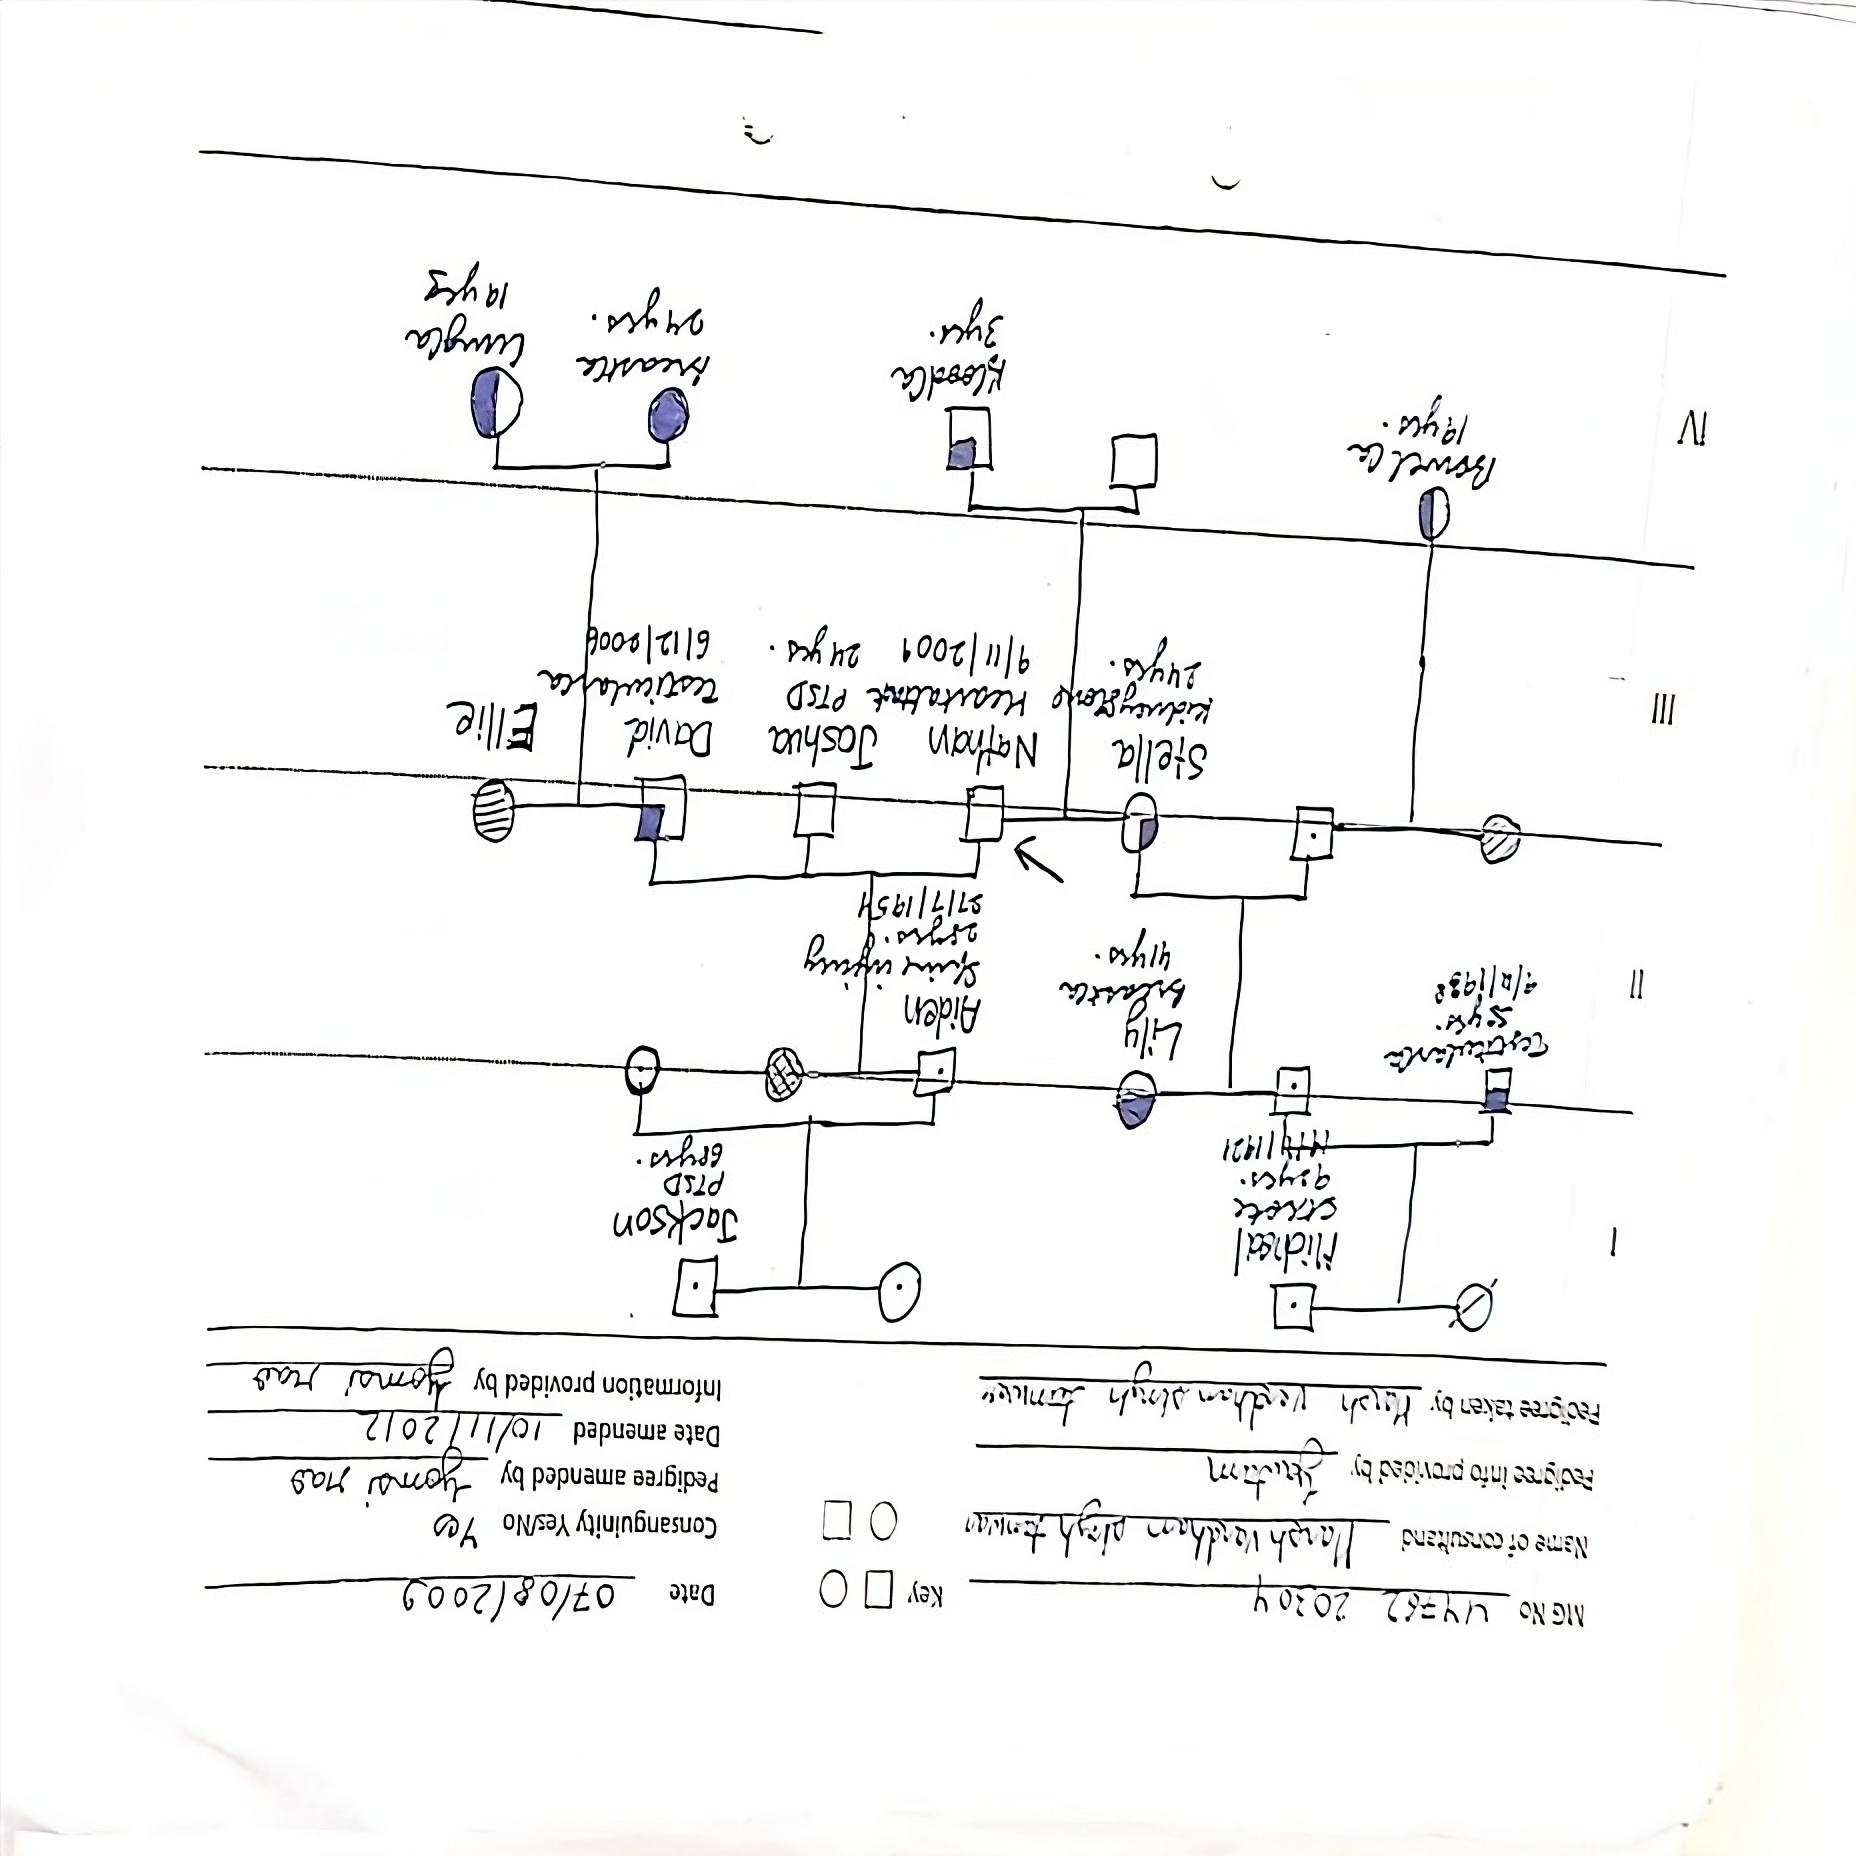
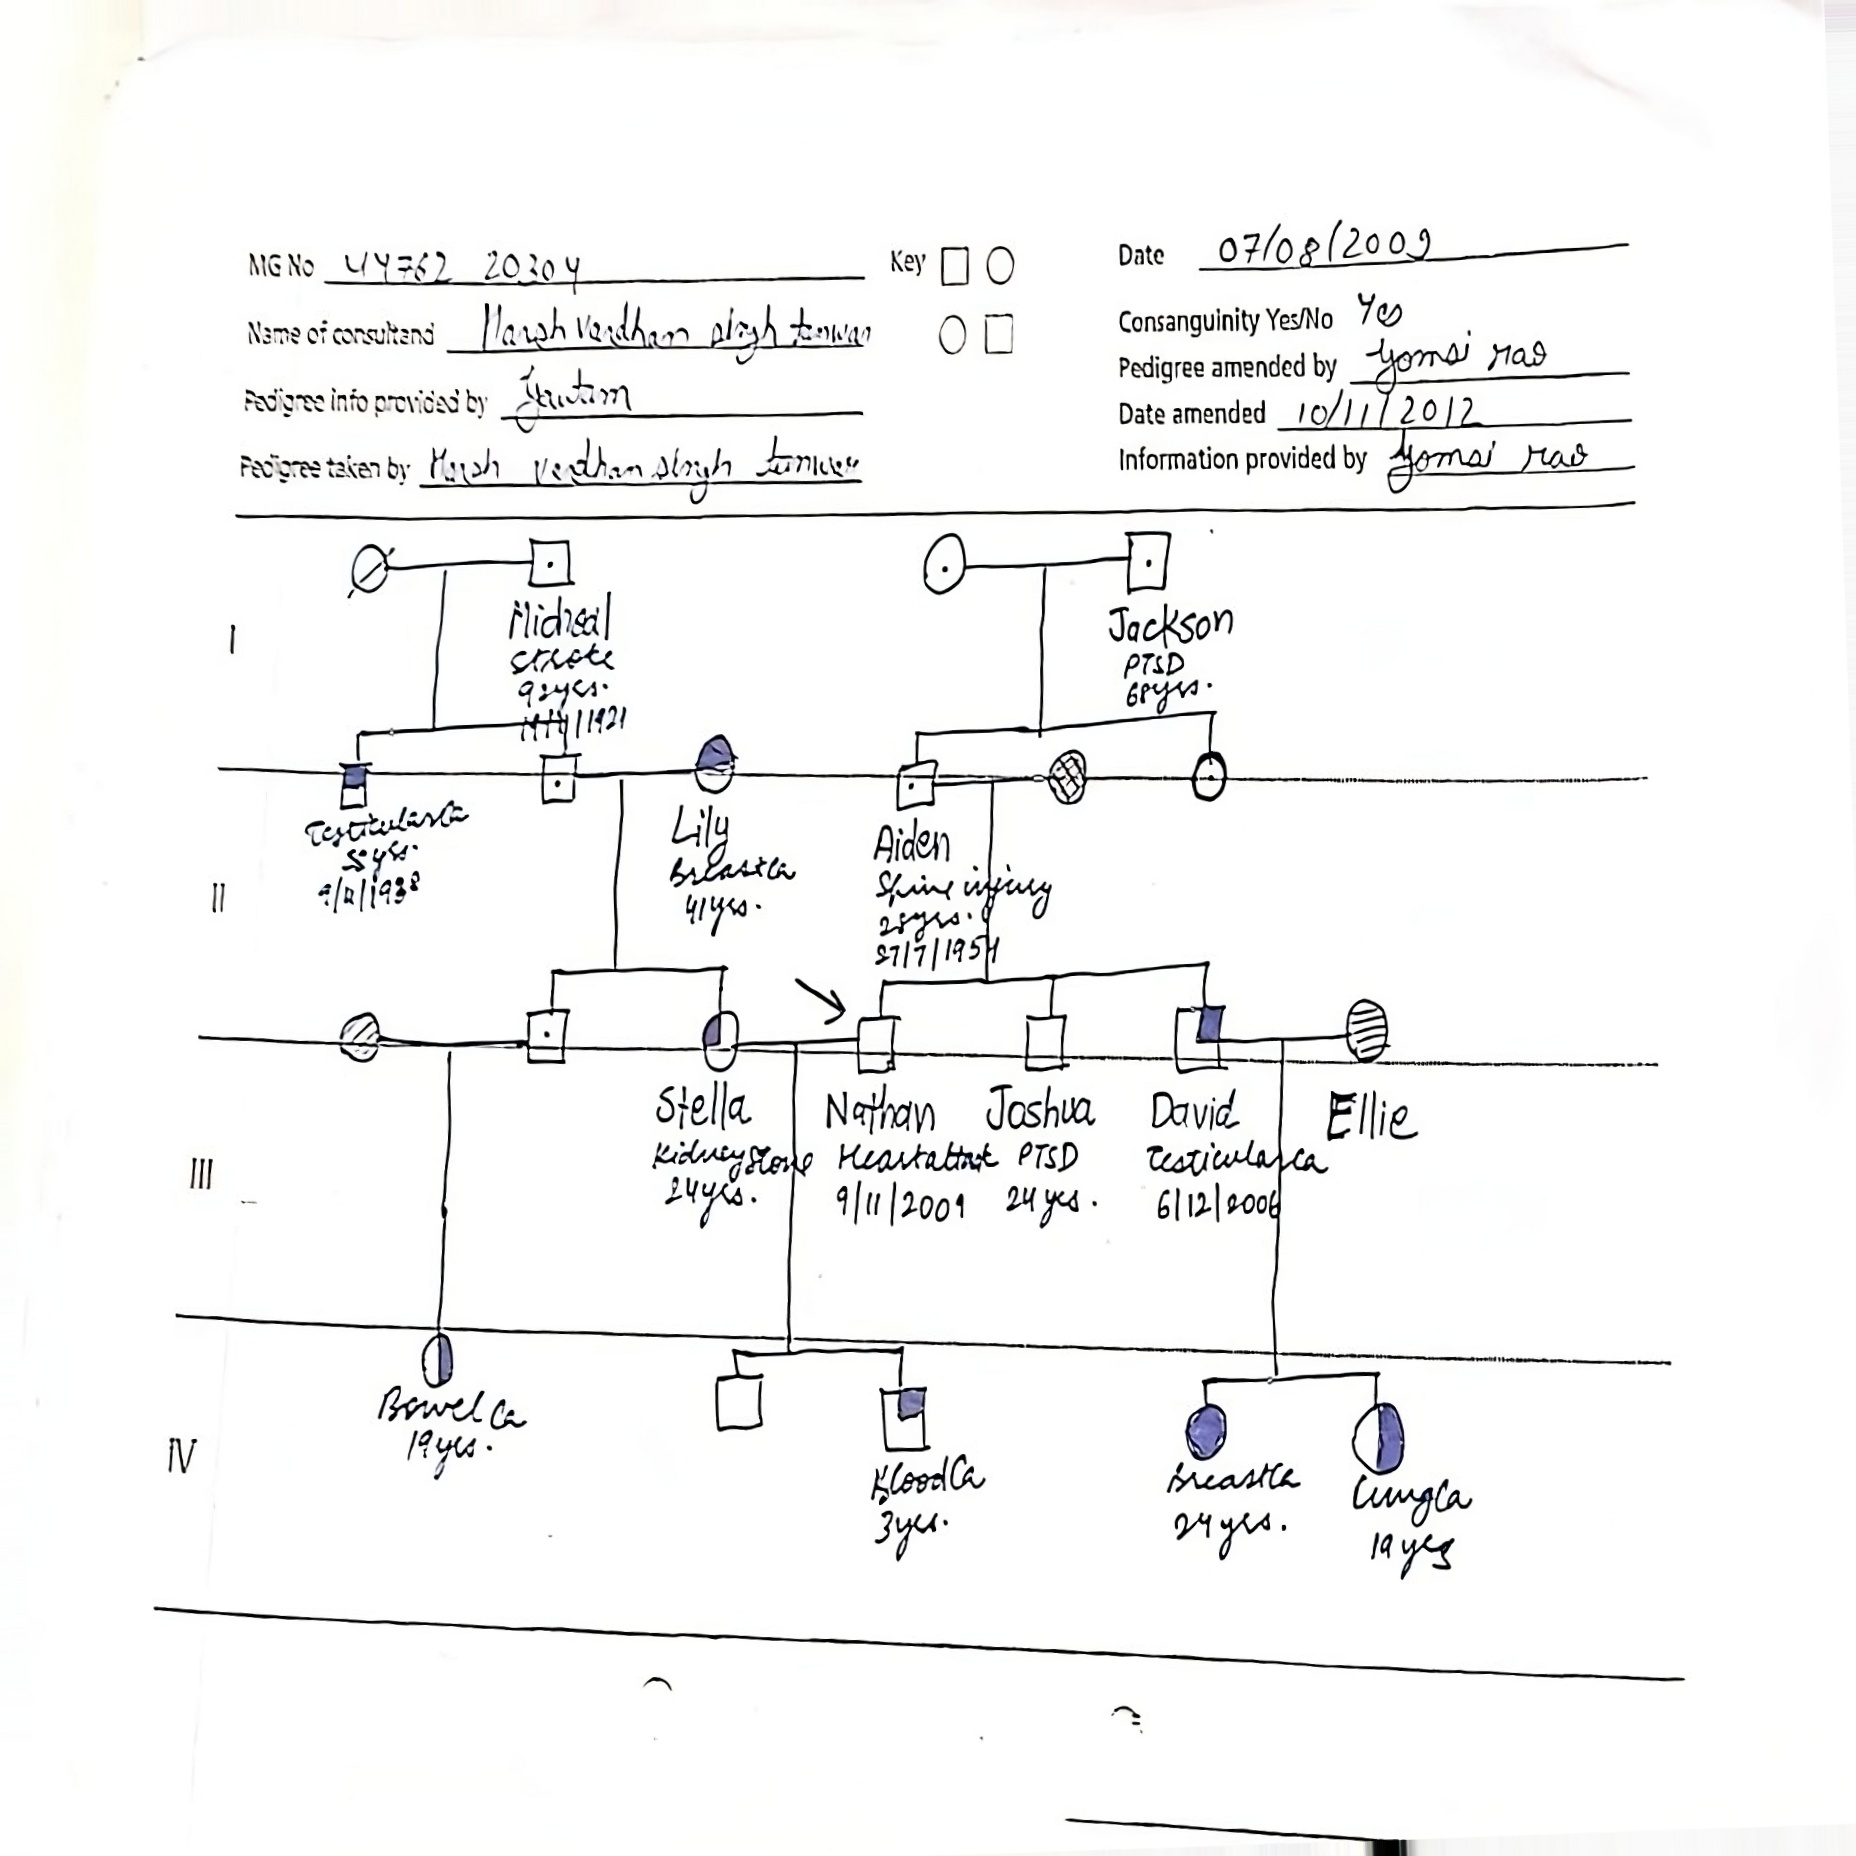
progress

diff --git a/app.py b/app.py
@@ -2,7 +2,7 @@ import os
 import cv2
 import numpy as np
 from skimage import transform
-from flask import Flask, render_template, request, redirect, url_for, send_from_directory
+from flask import Flask, render_template, request, redirect, url_for, send_from_directory, jsonify
 
 import pytesseract
 from PIL import Image
@@ -36,59 +36,113 @@ def upload_file():
         file.save(filepath)
 
         try:
-            rotated_image_path = process_image(filepath)
+            rotated_image_path, angle_info = process_image(filepath)
             return render_template('result.html', result={
                 'original': filepath,
-                'oriented': rotated_image_path
+                'oriented': rotated_image_path,
+                'angle_info': angle_info  # Pass angle information to the template
             })
         except Exception as e:
             return render_template('error.html', error=str(e))
 
     return redirect(request.url)
 
-
-
 def process_image(image_path):
-    img = cv2.imread(image_path)
-    if img is None:
-        raise FileNotFoundError("The image file was not found!")
-
-    # Step 1: Convert to grayscale
-    gray = cv2.cvtColor(img, cv2.COLOR_BGR2GRAY)
-
-    # Step 2: Edge detection
-    edges = cv2.Canny(gray, 50, 150, apertureSize=3)
-
-    # Step 3: Hough line transform to find predominant angles
-    lines = cv2.HoughLines(edges, 1, np.pi / 180, 200)
-    if lines is not None:
-        angles = []
-        for rho, theta in lines[:,0]:
-            angle = (theta * 180 / np.pi) - 90  # shift to [-90, 90]
-            if -45 < angle < 45:
-                angles.append(angle)
-        if angles:
-            median_angle = np.median(angles)
-            (h, w) = img.shape[:2]
-            M = cv2.getRotationMatrix2D((w // 2, h // 2), median_angle, 1.0)
-            img = cv2.warpAffine(img, M, (w, h), flags=cv2.INTER_LINEAR, borderMode=cv2.BORDER_REPLICATE)
-
-    # Step 4: OCR orientation detection using pytesseract
     try:
-        osd = pytesseract.image_to_osd(Image.fromarray(img), output_type=pytesseract.Output.DICT)
-        angle = osd.get("rotate", 0)
-        if angle != 0:
-            (h, w) = img.shape[:2]
-            M = cv2.getRotationMatrix2D((w // 2, h // 2), -angle, 1.0)
-            img = cv2.warpAffine(img, M, (w, h), flags=cv2.INTER_LINEAR, borderMode=cv2.BORDER_REPLICATE)
-    except:
-        pass  # Fallback silently if OCR fails
-
-    # Save final rotated image
-    rotated_image_path = os.path.join(os.path.dirname(image_path), 'rotated_' + os.path.basename(image_path))
-    cv2.imwrite(rotated_image_path, img)
-    return rotated_image_path
-
+        if not os.path.exists(image_path):
+            raise FileNotFoundError(f"File not found: {image_path}")
+ 
+        img = cv2.imread(image_path)
+        if img is None:
+            raise ValueError("Image file could not be read. Possibly corrupt or unsupported format.")
+ 
+        # Step 1: Convert to grayscale
+        try:
+            gray = cv2.cvtColor(img, cv2.COLOR_BGR2GRAY)
+        except Exception as e:
+            raise RuntimeError(f"Error converting to grayscale: {e}")
+ 
+        # Step 2: Edge detection
+        try:
+            edges = cv2.Canny(gray, 50, 150, apertureSize=3)
+        except Exception as e:
+            raise RuntimeError(f"Error in edge detection: {e}")
+ 
+        # Step 3: Improved Hough transform for skew detection that handles all angles
+        detected_angle = None
+        try:
+            lines = cv2.HoughLines(edges, 1, np.pi / 180, 200)
+            
+            if lines is not None and len(lines) > 0:
+                # Process all angles without range restriction
+                angles = []
+                for rho, theta in lines[:, 0]:
+                    # Convert to degrees and normalize to [-90, 90] range
+                    angle_degrees = np.degrees(theta) - 90
+                    
+                    # Normalize angle to proper range
+                    if angle_degrees < -90:
+                        angle_degrees += 180
+                    elif angle_degrees > 90:
+                        angle_degrees -= 180
+                        
+                    angles.append(angle_degrees)
+                
+                if angles:
+                    # Use a histogram approach to find the most common angle
+                    hist, bins = np.histogram(angles, bins=180, range=(-90, 90))
+                    most_common_angle_idx = np.argmax(hist)
+                    detected_angle = bins[most_common_angle_idx] + (bins[1] - bins[0])/2  # Use bin center
+                    
+                    print(f"Detected document rotation angle: {detected_angle:.2f} degrees")
+                    
+                    # Apply rotation correction
+                    (h, w) = img.shape[:2]
+                    center = (w // 2, h // 2)
+                    M = cv2.getRotationMatrix2D(center, detected_angle, 1.0)
+                    img = cv2.warpAffine(img, M, (w, h), flags=cv2.INTER_LINEAR, 
+                                        borderMode=cv2.BORDER_REPLICATE)
+        except Exception as e:
+            print(f"Error in Hough transform: {e}")
+            # Continue processing even if Hough transform fails
+ 
+        # Step 4: OCR orientation detection as a backup/refinement
+        ocr_angle = None
+        try:
+            osd = pytesseract.image_to_osd(Image.fromarray(img), output_type=pytesseract.Output.DICT)
+            ocr_angle = osd.get("rotate", 0)
+            
+            if ocr_angle not in [0, None]:
+                print(f"OCR detected orientation adjustment: {ocr_angle} degrees")
+                
+                # Only apply OCR rotation if significant and different from Hough detection
+                if abs(ocr_angle) >= 5:
+                    (h, w) = img.shape[:2]
+                    center = (w // 2, h // 2)
+                    M = cv2.getRotationMatrix2D(center, -ocr_angle, 1.0)
+                    img = cv2.warpAffine(img, M, (w, h), flags=cv2.INTER_LINEAR, 
+                                        borderMode=cv2.BORDER_REPLICATE)
+        except pytesseract.TesseractNotFoundError:
+            raise RuntimeError("Tesseract not found. Make sure it's installed and in your system PATH.")
+        except Exception as e:
+            print(f"OCR orientation detection failed (continuing without it): {e}")
+ 
+        # Step 5: Save result and return information
+        try:
+            angle_info = {
+                "hough_angle": round(detected_angle, 2) if detected_angle is not None else None,
+                "ocr_angle": ocr_angle
+            }
+            
+            rotated_image_path = os.path.join(os.path.dirname(image_path), 'rotated_' + os.path.basename(image_path))
+            cv2.imwrite(rotated_image_path, img)
+            
+            return rotated_image_path, angle_info
+        except Exception as e:
+            raise RuntimeError(f"Error saving rotated image: {e}")
+ 
+    except Exception as err:
+        raise RuntimeError(f"Image processing failed: {err}")
 
 @app.route('/uploads/<filename>')
 def uploaded_file(filename):
@@ -97,6 +151,32 @@ def uploaded_file(filename):
 @app.route('/error')
 def error():
     return render_template('error.html', error="An error occurred during processing.")
+
+# Add a route to get just the angle info for AJAX requests
+@app.route('/check_angle', methods=['POST'])
+def check_angle():
+    if 'file' not in request.files:
+        return jsonify({'error': 'No file part'})
+    
+    file = request.files['file']
+    
+    if file.filename == '':
+        return jsonify({'error': 'No selected file'})
+    
+    if file and allowed_file(file.filename):
+        filepath = os.path.join(app.config['UPLOAD_FOLDER'], file.filename)
+        file.save(filepath)
+
+        try:
+            _, angle_info = process_image(filepath)
+            return jsonify({
+                'success': True,
+                'angle_info': angle_info
+            })
+        except Exception as e:
+            return jsonify({'error': str(e)})
+    
+    return jsonify({'error': 'Invalid file type'})
 
 if __name__ == '__main__':
     app.run(debug=True)

diff --git a/testing.py b/testing.py
@@ -1,0 +1,25 @@
+import pytesseract
+from pytesseract import Output
+import cv2
+
+def get_document_orientation(image_path):
+    # Load the image
+    image = cv2.imread(image_path)
+
+    # Resize the image to ensure better resolution (if necessary)
+    if image is not None:
+        image = cv2.resize(image, None, fx=2, fy=2, interpolation=cv2.INTER_LINEAR)
+
+    # Use Tesseract to detect orientation
+    osd = pytesseract.image_to_osd(image, output_type=Output.DICT)
+
+    rotation = osd.get("rotate", 0)
+    orientation_confidence = osd.get("orientation_confidence", 0)
+
+    print(f"Detected orientation angle: {rotation} degrees")
+    print(f"Confidence: {orientation_confidence:.2f}")
+
+    return rotation
+
+# Example usage
+get_document_orientation("rotated_315.jpeg")
